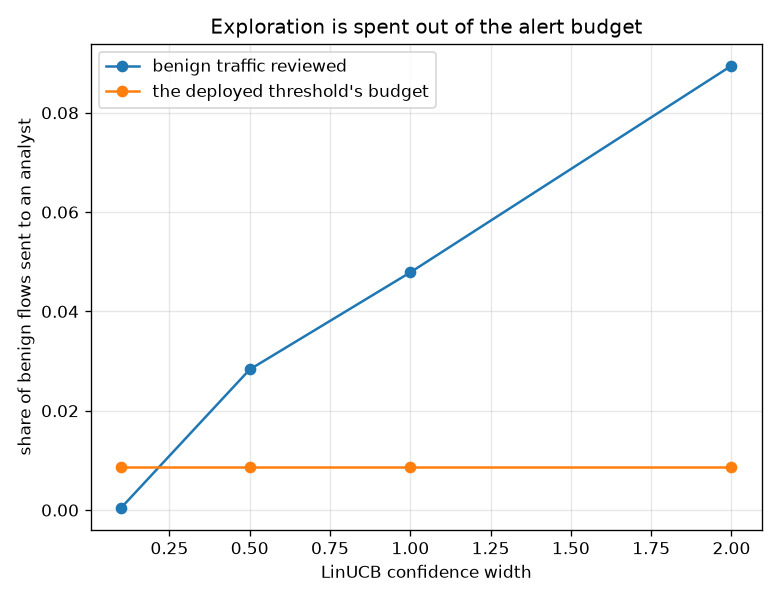
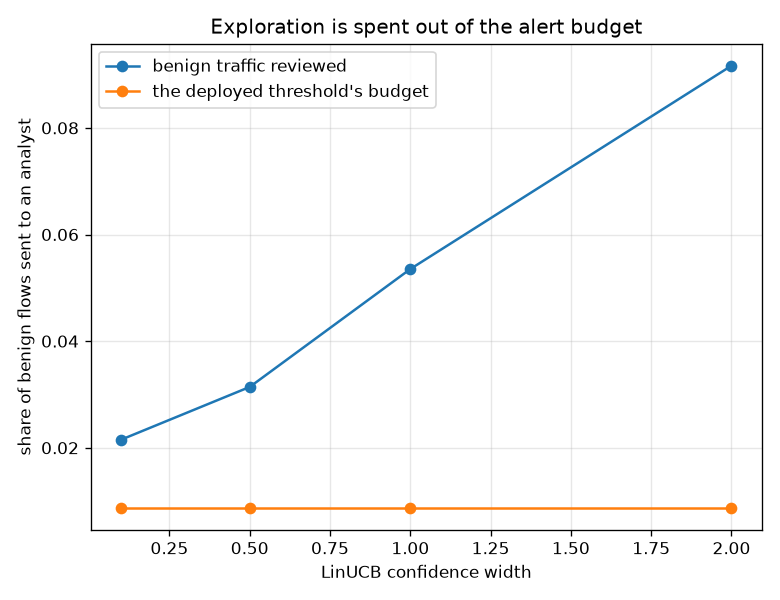
fix(eval): the static-analysis pass caught a leak in the bandit study
The mlint budget test went red during the release check. The contextual bandit
standardised its second context dimension by the *stream's own* mean and
standard deviation, which hands a learner that is supposed to be online a
statistic of flows it has not seen yet. A context built from the whole future is
not a context. It now comes from validation, where the thresholds are calibrated
anyway.

The fix moves the numbers and does not move the conclusion: LinUCB now ends on
-$2,725 with a T^0.41 regret exponent, spending 5.35% of the benign stream
against the deployed threshold's 0.88%. The leak had been helping it slightly,
and it lost anyway.

The same hit showed a rule mis-specified in the other direction, which is the
difference between a rule people keep and one they switch off. NS002 had been
treating *validation* statistics as leaks; but a transformer must be fitted on
training data only -- which NS001 enforces, validation included -- while a
threshold is chosen on validation, and that is this project's prescribed method
rather than a leak. NS002 now uses a narrower token set, documented in the rule
and pinned by tests in both directions.

Also makes the lifecycle study build a serving bundle when the models directory
has none that carries canaries, matching what `serve` already does, and pins the
app to the bundle the study is about so "newest file in the directory" cannot
mean two artifacts at once.

diff --git a/netsentry/governance/mlint.py b/netsentry/governance/mlint.py
@@ -53,6 +53,14 @@ NON_TRAIN_TOKENS: tuple[str, ...] = ("test", "val", "valid", "holdout", "eval", 
 #: Names that indicate the training split, which override the tokens above (``train_test``).
 TRAIN_TOKENS: tuple[str, ...] = ("train", "fit", "calib")
 
+#: The narrower set NS002 uses. The asymmetry is deliberate and comes straight from the rules:
+#: a transformer must be *fitted* on training data only, so NS001 counts validation as
+#: off-limits -- but choosing a threshold on validation is the prescribed method here, not a
+#: leak, so a statistic over `s_val` is the project doing what it says. What NS002 is after is
+#: the sentence "never compute a mean, std, min, max or category list over the full dataset",
+#: plus the test split, which is touched once and never summarised.
+STATISTIC_TOKENS: tuple[str, ...] = ("test", "holdout", "eval", "full", "combined")
+
 #: Methods that learn state from data. Calling one on anything but training data is the
 #: cardinal sin in `.claude/rules/ml.md` section 1.
 FITTING_METHODS: tuple[str, ...] = ("fit", "fit_transform", "fit_predict", "fit_resample")
@@ -159,8 +167,10 @@ RULES: tuple[Rule, ...] = (
     Rule(
         "NS002",
         "global-statistic",
-        "A mean, std, min, max or category list computed over the full dataset is the same "
-        "leak as fitting on it, and is easier to write by accident.",
+        "A mean, std, min, max or category list computed over the full dataset -- or over the "
+        "test split -- is the same leak as fitting on it, and is easier to write by accident. "
+        "Validation is deliberately *not* forbidden here: choosing a threshold on it is the "
+        "method this project prescribes.",
         "Cannot tell a statistic used for a feature from one used for a log line; a report "
         "that prints `full.mean()` is flagged as though it fed the model.",
     ),
@@ -246,7 +256,7 @@ def _words(text: str) -> set[str]:
     return words
 
 
-def _is_non_train(text: str) -> bool:
+def _is_non_train(text: str, tokens: tuple[str, ...] = NON_TRAIN_TOKENS) -> bool:
     """True when an expression's name says it is not the training split.
 
     ``train_test_split`` and ``X_train`` both contain a train token, so a train token wins:
@@ -255,7 +265,7 @@ def _is_non_train(text: str) -> bool:
     words = _words(text)
     if words & set(TRAIN_TOKENS):
         return False
-    return bool(words & set(NON_TRAIN_TOKENS))
+    return bool(words & set(tokens))
 
 
 #: Words that mean an identifier column is being named in order to get rid of it.
@@ -353,7 +363,7 @@ class _Visitor(ast.NodeVisitor):
         if attribute in GLOBAL_STATISTICS and isinstance(node.func, ast.Attribute):
             receiver = _name_of(node.func.value)
             reported = bool(_words(receiver) & set(NON_FEATURE_RECEIVERS))
-            if _is_non_train(receiver) and not reported:
+            if _is_non_train(receiver, STATISTIC_TOKENS) and not reported:
                 self._add(
                     "NS002",
                     node,
@@ -840,6 +850,19 @@ The rule set did not start clean, and the first run is the reason to trust the s
 Nine hits, five changes. A linter whose precision was never measured is a linter that will
 eventually be turned off; this one's is stated, and the four hits that led to no change are in
 the table above rather than deleted from the rule set.
+
+**Then it failed the build on code written the same week**, which is a better argument for it
+than anything above. The [online-triage study](bandit.md) standardised its context by the
+*stream's own* mean and standard deviation -- handing a learner that is supposed to be online a
+statistic of flows it has not seen yet -- and NS002 caught it during the release check, after
+that study's report had already been generated and read. The context now comes from validation.
+
+The same hit showed a rule mis-specified in the other direction, and it is worth stating because
+it is the difference between a rule people keep and one they switch off. NS002 had been treating
+*validation* statistics as leaks; but a transformer must be **fitted** on training data only
+(which NS001 enforces, validation included), while a threshold is **chosen** on validation --
+that is this project's prescribed method, not a leak. NS002's token set is now the narrower one,
+and two tests pin the asymmetry in both directions.
 
 ## Scope and honest limits
 

diff --git a/netsentry/evaluation/bandit.py b/netsentry/evaluation/bandit.py
@@ -22,15 +22,18 @@ Five learners run on the same stream:
   budget, which learns nothing and pays no exploration cost.
 - **Uniform random**: the floor.
 
-Regret is measured against the best fixed action policy in hindsight, and plotted against the
-`sqrt(T)` envelope the theory promises -- a bandit whose regret grows linearly is a bandit that
-never learned, and the shape is the only way to tell.
+Regret is measured against the best *threshold* policy in hindsight -- not the best fixed
+action, which at a 1% attack rate is "review nothing" and would reward a learner for doing the
+same -- and its growth exponent is fitted, because a bandit whose regret grows linearly never
+learned and the shape is the only way to tell.
 
-The number this study exists to produce is not regret, though. **It is the exploration cost in
-missed attacks**: the flows a learner skipped while it was still finding out, which a fixed
-threshold would have caught. Regret is denominated in a currency the SOC does not use, and a
-learning system that is 3% better on average while missing an extra dozen intrusions during its
-first shift is not obviously a system anyone should deploy.
+The number this study exists to produce is not regret, though. It is **what exploration is paid
+for out of**, and the answer turned out not to be the one this module was written expecting.
+With two actions and an asymmetric reward, exploring *is* reviewing: the learners catch more
+attacks than the incumbent and lose money doing it, spending several times the deployed alert
+budget while they find out. Regret is denominated in a currency a SOC does not use, and a
+budget is a rate rather than a price -- which is the distinction every fixed-FPR threshold in
+this repository exists to express, and the one a reward function cannot.
 """
 
 from __future__ import annotations
@@ -417,9 +420,13 @@ def run_bandit_study(settings: Settings) -> BanditStudy:
     s_test, y_test = s_test[order], y_test[order]
 
     # A second context dimension the score alone does not carry: how far this flow sits from
-    # the stream's own centre, standardised. It is the cheapest available stand-in for the
-    # anomaly channel and keeps the bandit's problem two-dimensional rather than one.
-    anomaly = np.clip((s_test - s_test.mean()) / (s_test.std() + 1e-9), -4.0, 4.0)
+    # the *calibration* distribution's centre, standardised. The centre and spread come from
+    # validation, not from the stream -- the first version used the stream's own mean and the
+    # static-analysis pass caught it, correctly: an online learner at flow one cannot know a
+    # statistic of flows it has not seen, and a context built from the whole future is not a
+    # context at all.
+    centre, spread = float(s_val.mean()), float(s_val.std())
+    anomaly = np.clip((s_test - centre) / (spread + 1e-9), -4.0, 4.0)
     contexts = np.vstack(
         [build_context(float(s), float(a)) for s, a in zip(s_test, anomaly, strict=True)]
     )

diff --git a/netsentry/serving/lifecycle.py b/netsentry/serving/lifecycle.py
@@ -347,6 +347,36 @@ def write_canary_failing_bundle(settings: Settings, source: Path, destination: P
     return destination
 
 
+def bundle_with_canary(settings: Settings) -> Path | None:
+    """The newest bundle under the models directory that actually carries canaries.
+
+    The lifecycle study needs one, because the artifact the reload gate is built to refuse is
+    made by perturbing a bundle's embedded expectations. A models directory accumulates
+    bundles -- the promoted champion, per-split classifiers, the serving bundle -- and only
+    some of them were built with canaries embedded, so "newest" is not a safe answer on its own.
+    """
+    import joblib
+
+    from netsentry.serving.canary import CANARY_KEY
+
+    models_dir = settings.paths.models_dir
+    if not models_dir.exists():
+        return None
+    newest_first = sorted(
+        models_dir.glob("*.joblib"), key=lambda path: path.stat().st_mtime, reverse=True
+    )
+    for path in newest_first:
+        if path.name == CANARY_FAIL_BUNDLE:
+            continue
+        try:
+            payload = joblib.load(path).metadata.get(CANARY_KEY)
+        except Exception:  # a bundle this runtime cannot even load is not a candidate
+            continue
+        if isinstance(payload, dict) and payload.get("expected_scores"):
+            return path
+    return None
+
+
 def make_executor(
     client: Any, settings: Settings, valid_bundle: str, failing_bundle: str
 ) -> Callable[[str], tuple[int, dict[str, Any] | None, str | None]]:
@@ -560,10 +590,22 @@ def run_lifecycle_study(settings: Settings, client: Any | None = None) -> Lifecy
     # otherwise the service under test is the broken bundle and every result is about that.
     # A stale copy from an interrupted run would do the same, so it is removed first.
     (models_dir / CANARY_FAIL_BUNDLE).unlink(missing_ok=True)
-    resolved = probe.serving.artifact_path or latest_bundle(probe)
+    resolved = probe.serving.artifact_path or bundle_with_canary(probe)
+    if resolved is None:
+        # Same lazy build the `serve` command does. The study needs a bundle that carries
+        # canaries, since the artifact the reload gate exists to refuse is made by perturbing
+        # them -- so falling back to just any bundle would be a study of a different thing.
+        from netsentry.serving.bundle import build_serving_bundle
+
+        logger.info("No bundle with canaries found; building a serving bundle")
+        build_serving_bundle(probe)
+        resolved = bundle_with_canary(probe) or latest_bundle(probe)
     if resolved is None:
         raise FileNotFoundError("No model bundle to drive the lifecycle against.")
     source = Path(resolved)
+    # Pin the app to the same bundle the study is about, so "the newest file in the directory"
+    # cannot silently mean two different artifacts to the service and to its checker.
+    probe.serving.artifact_path = source
 
     from fastapi.testclient import TestClient
 

diff --git a/tests/unit/test_mlint.py b/tests/unit/test_mlint.py
@@ -110,6 +110,26 @@ def test_the_word_values_does_not_read_as_the_validation_split() -> None:
     assert "NS002" not in _codes("pr_auc = float(values[:, 0].mean())")
 
 
+def test_a_statistic_over_the_test_split_is_a_violation() -> None:
+    """The hit that found a real leak in this repository's own bandit study.
+
+    Standardising a stream by its own mean gives an online learner a statistic of flows it has
+    not seen yet, which is not a context at all.
+    """
+    assert "NS002" in _codes("centred = (s_test - s_test.mean()) / s_test.std()")
+
+
+def test_a_statistic_over_the_validation_split_is_not() -> None:
+    """The asymmetry between NS001 and NS002, and it comes straight from the project's rules.
+
+    A transformer must be *fitted* on training data only, so NS001 counts validation as
+    off-limits. Choosing a threshold on validation is the prescribed method, so NS002 does not.
+    Getting this wrong in either direction breaks a rule people would otherwise keep.
+    """
+    assert "NS002" not in _codes("centre = s_val.mean()")
+    assert "NS001" in _codes("scaler.fit(X_val)")
+
+
 def test_a_reported_label_prevalence_is_not_a_leak() -> None:
     # `y_test.mean()` is the test split's prevalence, which goes in a table. It never reaches a
     # transformer, and a rule that cannot tell the difference fires on every report.

diff --git a/docs/reports/bandit.md b/docs/reports/bandit.md
@@ -13,11 +13,11 @@ This is the other half: **learning** one while it runs, with no log to start fro
 to ask. It is the contextual bandit in its natural habitat -- a flow arrives, the system reviews
 it or skips it, and a skipped attack produces no alert, no signal and no lesson.
 
-Over 18,909 flows at a 1.00% attack rate, **every learner loses to a threshold that was chosen once, on validation, and never touched again**. The best of them (LinUCB) ends on $-1,025 against the incumbent's $11,575, and none of them ever overtakes it.
+Over 18,909 flows at a 1.00% attack rate, **every learner loses to a threshold that was chosen once, on validation, and never touched again**. The best of them (LinUCB) ends on $-2,725 against the incumbent's $11,575, and none of them ever overtakes it.
 
-The theory is not what failed. LinUCB's cumulative regret grows as `T^0.35` -- the `sqrt(T)` the analysis promises -- while epsilon-greedy manages `T^0.83` and the random control `T^0.96`, which is what not learning looks like. The algorithm behaves exactly as advertised and is still the wrong thing to deploy.
+The theory is not what failed. LinUCB's cumulative regret grows as `T^0.41` -- the `sqrt(T)` the analysis promises -- while epsilon-greedy manages `T^0.85` and the random control `T^0.96`, which is what not learning looks like. The algorithm behaves exactly as advertised and is still the wrong thing to deploy.
 
-**What exploration costs here is not detection. It is the alert budget.** LinUCB reviews 4.8% of benign traffic against the deployed threshold's 0.9% -- and catches *more* attacks for it, 45 against 33. It is buying detection with analyst time at a price the reward function says is bad and a SOC would never authorise at all.
+**What exploration costs here is not detection. It is the alert budget.** LinUCB reviews 5.4% of benign traffic against the deployed threshold's 0.9% -- and catches *more* attacks for it, 47 against 33. It is buying detection with analyst time at a price the reward function says is bad and a SOC would never authorise at all.
 
 ## The policies
 
@@ -25,9 +25,9 @@ The theory is not what failed. LinUCB's cumulative regret grows as `T^0.35` -- t
 
 | policy | total reward | spread over repeats | flows reviewed | attacks caught | benign reviewed (alert budget) | regret |
 |---|---|---|---|---|---|---|
-| LinUCB | $-1,025 | $0 | 941 | 45 | 4.79% | $13,675 |
-| Thompson sampling | $-46,085 | $8,125 | 2,855 | 51 | 14.98% | $58,735 |
-| epsilon-greedy | $-11,850 | $3,800 | 1,234 | 38 | 6.39% | $24,500 |
+| LinUCB | $-2,725 | $0 | 1,049 | 47 | 5.35% | $15,375 |
+| Thompson sampling | $-44,245 | $7,625 | 2,830 | 53 | 14.83% | $56,895 |
+| epsilon-greedy | $-13,085 | $3,900 | 1,315 | 40 | 6.82% | $25,735 |
 | uniform random | $-18,645 | $4,250 | 930 | 9 | 4.92% | $31,295 |
 | the deployed threshold | $11,575 | $0 | 197 | 33 | 0.88% | $1,075 |
 | **the best threshold in hindsight (0.8418)** | **$12,650** | -- | -- | -- | -- | $0 |
@@ -47,16 +47,16 @@ below has to be read against.
 The spread column is worth a glance: LinUCB's is exactly zero, because LinUCB is
 *deterministic* given the stream -- its upper confidence bound is a function of what it has
 seen, not of a coin -- so its repeats agree to the cent. Thompson sampling's spread of
-$8,125 is the other end of that: the same algorithm and the same data,
+$7,625 is the other end of that: the same algorithm and the same data,
 differing only in a posterior draw, landing that far apart run to run.
 
 ## Does the regret curve behave?
 
 | policy | regret exponent | overtook the incumbent |
 |---|---|---|
-| LinUCB | 0.35 | **never** |
+| LinUCB | 0.41 | **never** |
 | Thompson sampling | 0.62 | **never** |
-| epsilon-greedy | 0.83 | **never** |
+| epsilon-greedy | 0.85 | **never** |
 | uniform random | 0.96 | **never** |
 
 This is the table that separates "the algorithm is broken" from "the algorithm is fine and the
@@ -71,10 +71,10 @@ implementation is doing what it says on the tin, and it still never catches the 
 
 | confidence width | total reward | benign reviewed | attacks caught |
 |---|---|---|---|
-| 0.1 | $-225 | 0.05% | 0 |
-| 0.5 | $6,225 | 2.83% | 41 |
-| 1.0 | $-1,025 | 4.79% | 45 |
-| 2.0 | $-17,650 | 8.95% | 51 |
+| 0.1 | $9,400 | 2.15% | 41 |
+| 0.5 | $5,250 | 3.14% | 42 |
+| 1.0 | $-2,725 | 5.35% | 47 |
+| 2.0 | $-20,575 | 9.17% | 47 |
 
 LinUCB's confidence width is the only dial between "never review" and "review everything", and
 the sweep prices it in alert volume rather than in dollars. There is no setting that behaves
@@ -82,10 +82,10 @@ like an operating point: the width trades total reward against the share of beni
 to an analyst, continuously, with no mechanism that says *stay under 1%*.
 
 **The best setting in the sweep still loses.** Tuned to
-$6,225, the learner returns
-54% of what the untouched
+$9,400, the learner returns
+81% of what the untouched
 threshold makes -- and it gets there by spending
-2.8% of the benign stream, several times the deployed budget. Tuning the
+2.2% of the benign stream, several times the deployed budget. Tuning the
 exploration constant against the reward moves the policy along that trade; it never converts it
 into a constraint.
 

diff --git a/docs/reports/mlint.md b/docs/reports/mlint.md
@@ -1,7 +1,7 @@
 # NetSentry — The Rules, Enforced by a Parser
 
 _6 static-analysis rules translated from `.claude/rules/ml.md`, run over
-194 modules, graded by injecting 12 violations into real source
+197 modules, graded by injecting 12 violations into real source
 and 10 pieces of correct code that resemble them. Regenerate with
 `netsentry mlint`._
 
@@ -18,7 +18,7 @@ so it fires when the mistake is *typed* rather than when the evaluation looks su
 | code | rule | what it forbids, and why | what it cannot see |
 |---|---|---|---|
 | `NS001` | fit-on-non-train-data | A transformer or estimator fitted on anything but the training split leaks test statistics into training (`.claude/rules/ml.md` section 1). | Only sees the fit target's own name. A frame assigned from the test split earlier and passed under a neutral name is invisible without type inference. |
-| `NS002` | global-statistic | A mean, std, min, max or category list computed over the full dataset is the same leak as fitting on it, and is easier to write by accident. | Cannot tell a statistic used for a feature from one used for a log line; a report that prints `full.mean()` is flagged as though it fed the model. |
+| `NS002` | global-statistic | A mean, std, min, max or category list computed over the full dataset -- or over the test split -- is the same leak as fitting on it, and is easier to write by accident. Validation is deliberately *not* forbidden here: choosing a threshold on it is the method this project prescribes. | Cannot tell a statistic used for a feature from one used for a log line; a report that prints `full.mean()` is flagged as though it fed the model. |
 | `NS003` | identifier-column-kept | Flow IDs, addresses and timestamps identify the capture session rather than the behaviour, and let a model memorise the split. | Flags the literal wherever it appears outside a drop list; it cannot follow the column into or out of a frame it never sees. |
 | `NS004` | unseeded-randomness | A run that cannot be reproduced from its config and seed cannot be audited (`.claude/rules/ml.md` section 7). | Only checks the call site. A seed threaded through a wrapper that itself defaults to `None` looks seeded here. |
 | `NS005` | hardcoded-threshold | An operating point typed into a function body is a decision nobody can find, change or record (`.claude/rules/python.md`). | Compares names against a list, so a threshold held in a differently-named variable passes, and a genuinely structural comparison can be flagged. |
@@ -130,6 +130,19 @@ The rule set did not start clean, and the first run is the reason to trust the s
 Nine hits, five changes. A linter whose precision was never measured is a linter that will
 eventually be turned off; this one's is stated, and the four hits that led to no change are in
 the table above rather than deleted from the rule set.
+
+**Then it failed the build on code written the same week**, which is a better argument for it
+than anything above. The [online-triage study](bandit.md) standardised its context by the
+*stream's own* mean and standard deviation -- handing a learner that is supposed to be online a
+statistic of flows it has not seen yet -- and NS002 caught it during the release check, after
+that study's report had already been generated and read. The context now comes from validation.
+
+The same hit showed a rule mis-specified in the other direction, and it is worth stating because
+it is the difference between a rule people keep and one they switch off. NS002 had been treating
+*validation* statistics as leaks; but a transformer must be **fitted** on training data only
+(which NS001 enforces, validation included), while a threshold is **chosen** on validation --
+that is this project's prescribed method, not a leak. NS002's token set is now the narrower one,
+and two tests pin the asymmetry in both directions.
 
 ## Scope and honest limits
 
